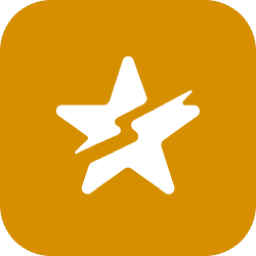
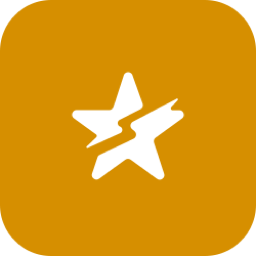
fix(android): inset Star launcher mark and improve cartoon splash reveal

Changed region(s): [[0.2188, 0.2188, 0.5938, 0.625], [0.3125, 0.3438, 0.7812, 0.7812]]

diff --git a/Star mobile/lib/features/shell/presentation/splash_reveal_overlay.dart b/Star mobile/lib/features/shell/presentation/splash_reveal_overlay.dart
@@ -21,7 +21,7 @@ class SplashRevealOverlay {
   static const double shellStartScale = 1.1;
   static const double symbolViewBox = 512;
   static const Duration totalDuration = Duration(milliseconds: 800);
-  static const Duration cartoonDuration = Duration(milliseconds: 980);
+  static const Duration cartoonDuration = Duration(milliseconds: 1650);
   static const Duration fadeOnlyDuration = Duration(milliseconds: 350);
   static const Duration reducedMotionDuration = Duration(milliseconds: 300);
   static const int maxTickMicros = 32000;
@@ -318,7 +318,7 @@ Widget _buildGoldCartoonFrame({
 }) {
     const double iconSize = SplashRevealOverlay.logoSize;
     final double vanishProgress = Curves.easeInCubic.transform(
-      ((progress - 0.84) / 0.16).clamp(0.0, 1.0),
+      ((progress - 0.88) / 0.12).clamp(0.0, 1.0),
     );
 
     // Accessible reduced-motion behavior: no scaling, bouncing, or movement.
@@ -351,33 +351,33 @@ Widget _buildGoldCartoonFrame({
       );
     }
 
-    final double bounceProgress = ((progress - 0.58) / 0.25).clamp(
+    final double bounceProgress = ((progress - 0.62) / 0.26).clamp(
       0.0,
       1.0,
     );
     final double starScale;
-    if (progress < 0.58) {
+    if (progress < 0.62) {
       starScale = 1;
-    } else if (progress < 0.70) {
+    } else if (progress < 0.75) {
       starScale = lerpDouble(
         1,
         1.17,
         Curves.easeOutBack.transform(
-          ((progress - 0.58) / 0.12).clamp(0.0, 1.0),
+          ((progress - 0.62) / 0.13).clamp(0.0, 1.0),
         ),
       )!;
-    } else if (progress < 0.84) {
+    } else if (progress < 0.88) {
       starScale = lerpDouble(
         1.17,
         0.92,
         Curves.bounceOut.transform(
-          ((progress - 0.70) / 0.14).clamp(0.0, 1.0),
+          ((progress - 0.75) / 0.13).clamp(0.0, 1.0),
         ),
       )!;
     } else {
       starScale = 0.92 * (1 - vanishProgress);
     }
-    final double hop = -20 *
+    final double hop = -32 *
         math.sin(math.pi * bounceProgress) *
         (1 - bounceProgress);
 
@@ -523,10 +523,10 @@ class _GoldCartoonBackdropPainter extends CustomPainter {
   @override
   void paint(Canvas canvas, Size size) {
     final double shrink = Curves.easeInOutCubic.transform(
-      (progress / 0.58).clamp(0.0, 1.0),
+      ((progress - 0.12) / 0.50).clamp(0.0, 1.0),
     );
     final double vanish = Curves.easeInCubic.transform(
-      ((progress - 0.84) / 0.16).clamp(0.0, 1.0),
+      ((progress - 0.88) / 0.12).clamp(0.0, 1.0),
     );
     final Offset center = Offset.lerp(
       size.center(Offset.zero),
@@ -535,16 +535,16 @@ class _GoldCartoonBackdropPainter extends CustomPainter {
     )!;
     const double badgeDiameter = 116;
     final double exitScale = lerpDouble(1, 0.18, vanish)!;
-    final double width =
-        lerpDouble(size.width, badgeDiameter, shrink)! * exitScale;
-    final double height =
-        lerpDouble(size.height, badgeDiameter, shrink)! * exitScale;
+    final double fullDiameter = math.sqrt(size.width * size.width + size.height * size.height) * 1.15;
+    final double diameter = lerpDouble(fullDiameter, badgeDiameter, shrink)! * exitScale;
+    final double width = diameter;
+    final double height = diameter;
     final Rect box = Rect.fromCenter(
       center: center,
       width: width,
       height: height,
     );
-    final double cornerRadius = math.min(width, height) * 0.5 * shrink;
+    final double cornerRadius = diameter / 2;
     canvas.drawRRect(
       RRect.fromRectAndRadius(box, Radius.circular(cornerRadius)),
       Paint()
